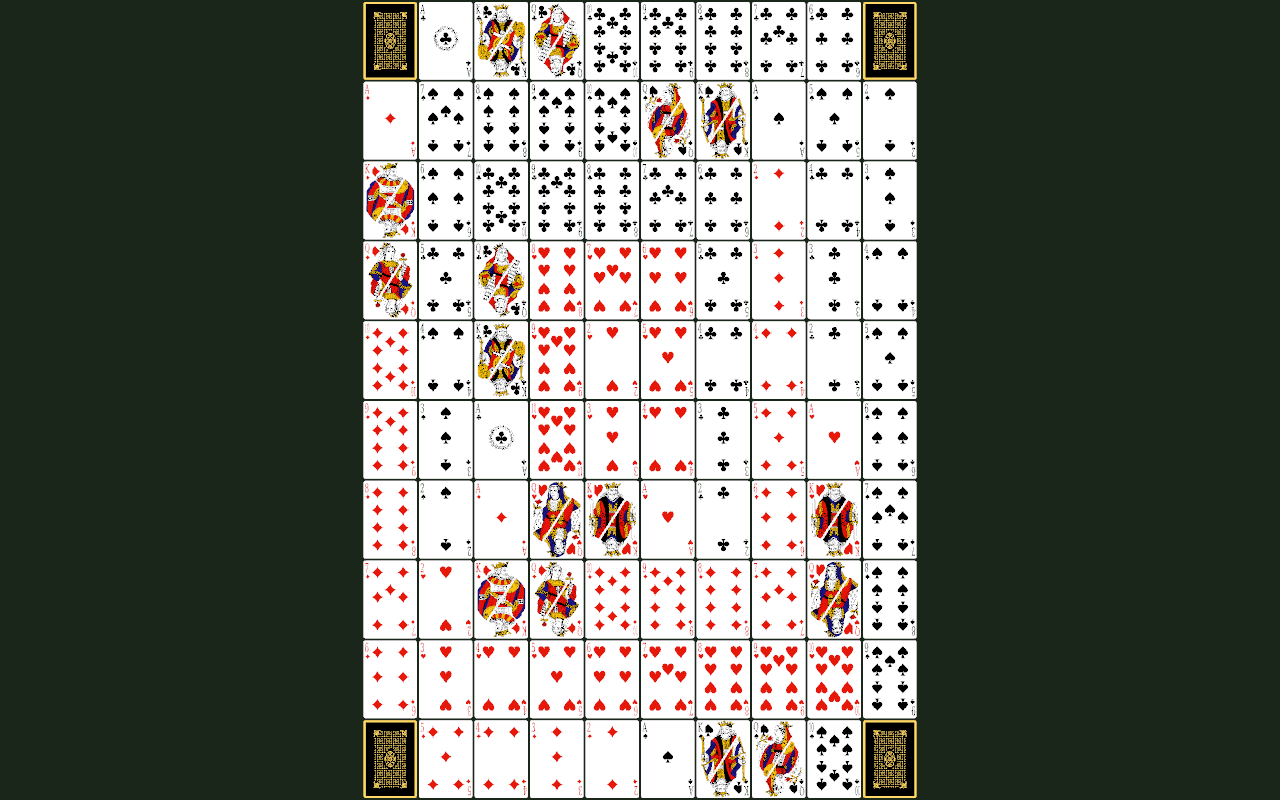
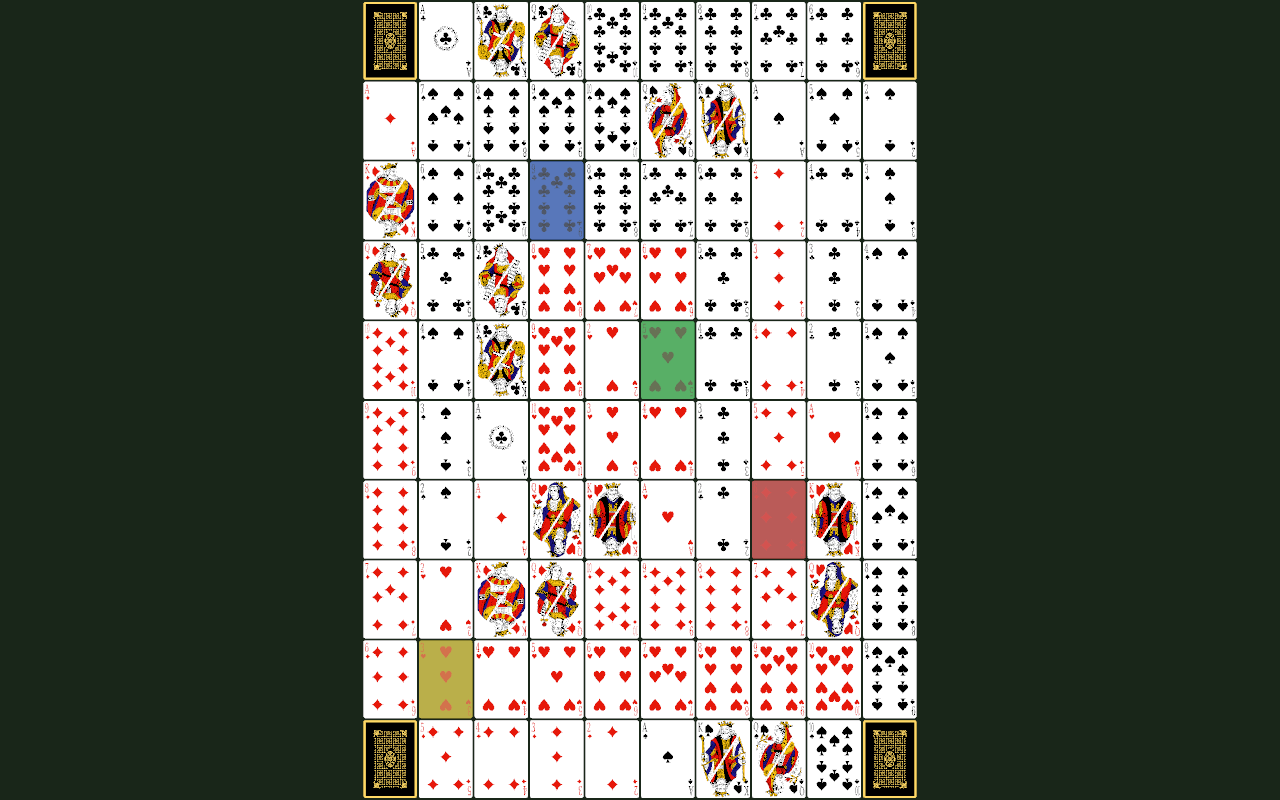
Phase 2: chips, hover highlighting, and click-to-cycle placement
Add chip state to gameplay module (place/get/clear/cycle), mouse
hit-testing and hover tint in main, live commands for debug chip
placement. 21 tests passing.

diff --git a/examples/daslive/sequence/CLAUDE.md b/examples/daslive/sequence/CLAUDE.md
@@ -96,4 +96,11 @@ bin/Release/daslang.exe dastest/dastest.das -- --test examples/daslive/sequence/
   - Note: MCP `compile_check` and `run_test` don't process `.das_module` files — use `daslang.exe`/`daslang-live.exe` for full compilation, MCP for gameplay-only tests
   - Note: GPU resources (deck, renderer) don't survive live reload — always recreate in init()
   - Fixed: `live_host_clear_live_vars()` added to dasLiveHost for full reload @live reset
-- **Phase 2**: NOT STARTED — Chips + hover + click
+- **Phase 2**: COMPLETE — Chips + hover + click
+  - `gameplay.das`: `board_chips` array, `get_chip`, `place_chip`, `clear_all_chips`, `next_chip_color`, `chip_color_to_float4`
+  - `main.das`: `screen_to_cell` hit-testing, `handle_mouse` hover+click, chip tinting via `draw_card` tint, `hover_tint` @live var
+  - `main.das`: `[live_command]` endpoints: `cmd_place_chip(row, col, color)`, `cmd_clear_board`
+  - `test_gameplay.das`: 21 tests (13 Phase 1 + 8 Phase 2) — chip placement, bounds, color cycle, alpha values
+  - Note: chips rendered as card tint overlay (no separate geometry), click cycles through blue→green→red→yellow→none
+  - Note: `require daslib/json_boost` needed for `from_JV` in live commands, `require glfw/glfw_boost` for mouse input
+- **Phase 3**: NOT STARTED — Game state + turn structure
